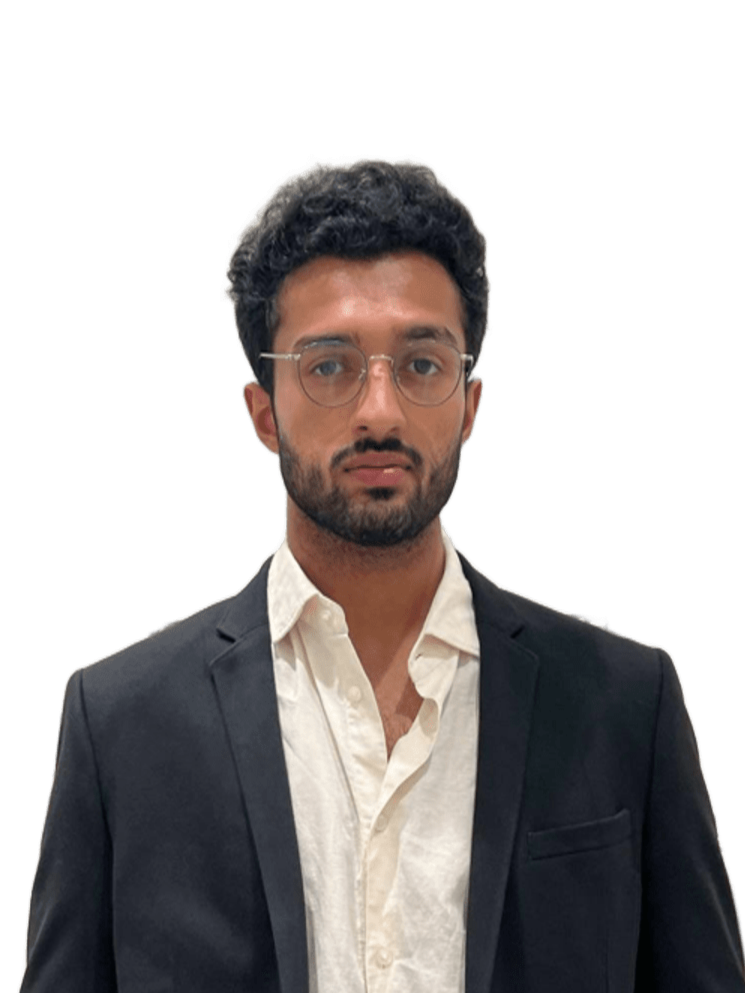
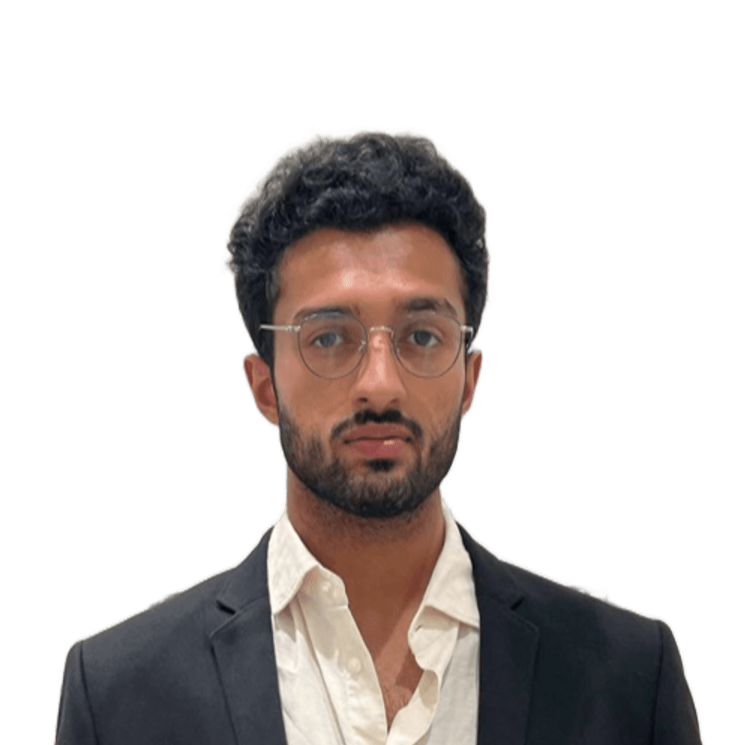
Update website with enhancements: 1) Change nav bar to NovaRyd green with white text, 2) Center About page images, 3) Fix app store buttons, 4) Replace PNG images with optimized WEBP format, 5) Add Keshav Jhawar image

diff --git a/index.html b/index.html
@@ -72,22 +72,22 @@
 </head>
 <body class="font-poppins text-slate-800 bg-neutral-100">
     <!-- Header/Navigation -->
-    <header class="bg-white shadow-sm sticky top-0 z-50">
+    <header class="bg-novaryd-green shadow-sm sticky top-0 z-50">
         <div class="container mx-auto px-6 py-4">
             <div class="flex justify-between items-center">
                 <a href="index.html" class="flex items-center">
-                    <img src="/assets/NovaRyd_Logo.png" alt="NovaRyd Logo" class="h-[40px] w-auto" width="160" height="40">
+                    <img src="/assets/NovaRyd_Logo.webp" alt="NovaRyd Logo" class="h-[40px] w-auto" width="160" height="40">
                 </a>
                 
                 <nav class="hidden md:flex space-x-8">
-                    <a href="index.html" class="text-novaryd-green font-medium transition duration-300">Home</a>
-                    <a href="about.html" class="text-slate-800 hover:text-novaryd-green transition duration-300">About Us</a>
-                    <a href="#advertisers" class="text-slate-800 hover:text-novaryd-green transition duration-300">Advertisers</a>
-                    <a href="#download-app" class="text-slate-800 hover:text-novaryd-green transition duration-300">Download App</a>
+                    <a href="index.html" class="text-white font-medium transition duration-300">Home</a>
+                    <a href="about.html" class="text-white hover:text-white/80 transition duration-300">About Us</a>
+                    <a href="#advertisers" class="text-white hover:text-white/80 transition duration-300">Advertisers</a>
+                    <a href="#download-app" class="text-white hover:text-white/80 transition duration-300">Download App</a>
                 </nav>
                 
                 <div class="md:hidden">
-                    <button id="mobile-menu-button" class="text-slate-800 hover:text-novaryd-green transition duration-300">
+                    <button id="mobile-menu-button" class="text-white hover:text-white/80 transition duration-300">
                         <svg xmlns="http://www.w3.org/2000/svg" class="h-6 w-6" fill="none" viewBox="0 0 24 24" stroke="currentColor">
                             <path stroke-linecap="round" stroke-linejoin="round" stroke-width="2" d="M4 6h16M4 12h16M4 18h16" />
                         </svg>
@@ -98,10 +98,10 @@
             <!-- Mobile Menu -->
             <div id="mobile-menu" class="md:hidden hidden mt-4 pb-4">
                 <nav class="flex flex-col space-y-4">
-                    <a href="index.html" class="text-novaryd-green font-medium transition duration-300">Home</a>
-                    <a href="about.html" class="text-slate-800 hover:text-novaryd-green transition duration-300">About Us</a>
-                    <a href="#advertisers" class="text-slate-800 hover:text-novaryd-green transition duration-300">Advertisers</a>
-                    <a href="#download-app" class="text-slate-800 hover:text-novaryd-green transition duration-300">Download App</a>
+                    <a href="index.html" class="text-white font-medium transition duration-300">Home</a>
+                    <a href="about.html" class="text-white hover:text-white/80 transition duration-300">About Us</a>
+                    <a href="#advertisers" class="text-white hover:text-white/80 transition duration-300">Advertisers</a>
+                    <a href="#download-app" class="text-white hover:text-white/80 transition duration-300">Download App</a>
                 </nav>
             </div>
         </div>
@@ -131,7 +131,7 @@
         <div class="md:w-1/2 flex justify-center">
             <!-- Vehicle image with drop shadow -->
             <div class="w-full max-w-md shadow-lg">
-                <img src="/assets/AutoRickshaw_Image.png" alt="NovaRyd Electric Auto-Rickshaw" class="w-full h-auto object-cover rounded-lg" width="500" height="400" loading="lazy">
+                <img src="/assets/AutoRickshaw_Image.webp" alt="NovaRyd Electric Auto-Rickshaw" class="w-full h-full object-contain rounded-lg shadow-md" width="500" height="400" loading="lazy">
             </div>
         </div>
     </section>
@@ -139,7 +139,7 @@
     <!-- App Download Section -->
     <section id="download" class="py-16 bg-gray-50">
       <div class="container mx-auto flex flex-col lg:flex-row items-center gap-8 px-4">
-        <img src="/assets/App_Screenshot.png" alt="NovaRyd booking app screenshot"
+        <img src="/assets/App_Screenshot.webp" alt="NovaRyd booking app screenshot"
              class="w-72 rounded-2xl shadow-xl mx-auto lg:mx-0" />
         <div class="text-center lg:text-left">
           <h2 class="text-3xl font-bold mb-4">Book your ride in two taps</h2>
@@ -331,16 +331,16 @@
                     <p class="mb-6">Experience hassle-free, eco-friendly rides at a flat rate. Available for iOS and Android.</p>
                     <div class="flex flex-col sm:flex-row gap-4 justify-center sm:justify-start">
                         <a href="app-coming-soon.html" aria-label="Download on the App Store" class="transition duration-300 hover:opacity-80">
-                            <img src="/assets/appstore.svg" alt="Apple App Store badge" class="h-12 w-auto" width="120" height="40">
+                            <img src="/assets/appstore.svg" alt="Download on the App Store" class="h-11 w-auto" style="min-width: 140px;" width="140" height="44">
                         </a>
                         <a href="app-coming-soon.html" aria-label="Get it on Google Play" class="transition duration-300 hover:opacity-80">
-                            <img src="/assets/playstore.svg" alt="Google Play Store badge" class="h-12 w-auto" width="135" height="40">
+                            <img src="/assets/playstore.svg" alt="Get it on Google Play" class="h-11 w-auto" style="min-width: 140px;" width="140" height="44">
                         </a>
                     </div>
                 </div>
                 <div class="md:w-1/2 flex justify-center">
                     <div class="bg-neutral-200 rounded-lg w-[200px] h-[400px] flex items-center justify-center">
-                        <img src="/assets/App_Screenshot.png" alt="NovaRyd App Screenshot" class="w-full h-full object-cover rounded-lg" width="200" height="400" loading="lazy">
+                        <img src="/assets/App_Screenshot.webp" alt="NovaRyd App Screenshot" class="w-full h-full object-cover rounded-lg" width="200" height="400" loading="lazy">
                     </div>
                 </div>
             </div>
@@ -364,7 +364,7 @@
                 <div class="mb-6 md:mb-0">
                     <!-- Logo in footer -->
                     <div class="mb-4">
-                        <img src="/assets/NovaRyd_Logo.png" alt="NovaRyd Logo" class="h-[40px] w-auto" width="160" height="40">
+                        <img src="/assets/NovaRyd_Logo.webp" alt="NovaRyd Logo" class="h-[40px] w-auto" width="160" height="40">
                     </div>
                     <p class="text-sm text-gray-400">Low-cost, all-electric mobility for a greener Mumbai</p>
                 </div>

diff --git a/about.html b/about.html
@@ -57,22 +57,22 @@
 </head>
 <body class="font-poppins text-slate-800 bg-neutral-100">
     <!-- Header/Navigation -->
-    <header class="bg-white shadow-sm sticky top-0 z-50">
+    <header class="bg-novaryd-green shadow-sm sticky top-0 z-50">
         <div class="container mx-auto px-6 py-4">
             <div class="flex justify-between items-center">
                 <a href="index.html" class="flex items-center">
-                    <img src="/assets/NovaRyd_Logo.png" alt="NovaRyd Logo" class="h-[40px] w-auto" width="160" height="40">
+                    <img src="/assets/NovaRyd_Logo.webp" alt="NovaRyd Logo" class="h-[40px] w-auto" width="160" height="40">
                 </a>
                 
                 <nav class="hidden md:flex space-x-8">
-                    <a href="index.html" class="text-slate-800 hover:text-novaryd-green transition duration-300">Home</a>
-                    <a href="about.html" class="text-novaryd-green font-medium transition duration-300">About Us</a>
-                    <a href="index.html#advertisers" class="text-slate-800 hover:text-novaryd-green transition duration-300">Advertisers</a>
-                    <a href="index.html#download-app" class="text-slate-800 hover:text-novaryd-green transition duration-300">Download App</a>
+                    <a href="index.html" class="text-white hover:text-white/80 transition duration-300">Home</a>
+                    <a href="about.html" class="text-white font-medium transition duration-300">About Us</a>
+                    <a href="index.html#advertisers" class="text-white hover:text-white/80 transition duration-300">Advertisers</a>
+                    <a href="index.html#download-app" class="text-white hover:text-white/80 transition duration-300">Download App</a>
                 </nav>
                 
                 <div class="md:hidden">
-                    <button id="mobile-menu-button" class="text-slate-800 hover:text-novaryd-green transition duration-300">
+                    <button id="mobile-menu-button" class="text-white hover:text-white/80 transition duration-300">
                         <svg xmlns="http://www.w3.org/2000/svg" class="h-6 w-6" fill="none" viewBox="0 0 24 24" stroke="currentColor">
                             <path stroke-linecap="round" stroke-linejoin="round" stroke-width="2" d="M4 6h16M4 12h16M4 18h16" />
                         </svg>
@@ -83,10 +83,10 @@
             <!-- Mobile Menu -->
             <div id="mobile-menu" class="md:hidden hidden mt-4 pb-4">
                 <nav class="flex flex-col space-y-4">
-                    <a href="index.html" class="text-slate-800 hover:text-novaryd-green transition duration-300">Home</a>
-                    <a href="about.html" class="text-novaryd-green font-medium transition duration-300">About Us</a>
-                    <a href="index.html#advertisers" class="text-slate-800 hover:text-novaryd-green transition duration-300">Advertisers</a>
-                    <a href="index.html#download-app" class="text-slate-800 hover:text-novaryd-green transition duration-300">Download App</a>
+                    <a href="index.html" class="text-white hover:text-white/80 transition duration-300">Home</a>
+                    <a href="about.html" class="text-white font-medium transition duration-300">About Us</a>
+                    <a href="index.html#advertisers" class="text-white hover:text-white/80 transition duration-300">Advertisers</a>
+                    <a href="index.html#download-app" class="text-white hover:text-white/80 transition duration-300">Download App</a>
                 </nav>
             </div>
         </div>
@@ -164,7 +164,7 @@
                 <!-- Team Member 1 -->
                 <div class="bg-neutral-100 rounded-lg overflow-hidden text-center">
                     <div class="bg-neutral-200 h-48 flex items-center justify-center overflow-hidden">
-                        <img src="/assets/Pavan Pal.png" alt="Pavan Pal - Co-Founder & CEO" class="w-full h-full object-cover">
+                        <img src="/assets/Pavan Pal.webp" alt="Pavan Pal - Co-Founder & CEO" class="w-auto h-auto object-cover mx-auto my-3" style="width: 300px; height: auto;">
                     </div>
                     <div class="p-6">
                         <h3 class="text-xl font-bold mb-1">Pavan Pal</h3>
@@ -176,7 +176,7 @@
                 <!-- Team Member 2 -->
                 <div class="bg-neutral-100 rounded-lg overflow-hidden text-center">
                     <div class="bg-neutral-200 h-48 flex items-center justify-center overflow-hidden">
-                        <img src="/assets/Madhavan Sivakumaran.png" alt="Madhavan Sivakumaran - Co-Founder & CTO" class="w-full h-full object-cover">
+                        <img src="/assets/Madhavan Sivakumaran.webp" alt="Madhavan Sivakumaran - Co-Founder & CTO" class="w-auto h-auto object-cover mx-auto my-3" style="width: 300px; height: auto;">
                     </div>
                     <div class="p-6">
                         <h3 class="text-xl font-bold mb-1">Madhavan Sivakumaran</h3>
@@ -187,10 +187,8 @@
                 
                 <!-- Team Member 3 -->
                 <div class="bg-neutral-100 rounded-lg overflow-hidden text-center">
-                    <div class="bg-neutral-200 h-48 flex items-center justify-center">
-                        <svg xmlns="http://www.w3.org/2000/svg" class="h-24 w-24 text-gray-400" fill="none" viewBox="0 0 24 24" stroke="currentColor">
-                            <path stroke-linecap="round" stroke-linejoin="round" stroke-width="1" d="M5.121 17.804A13.937 13.937 0 0112 16c2.5 0 4.847.655 6.879 1.804M15 10a3 3 0 11-6 0 3 3 0 016 0zm6 2a9 9 0 11-18 0 9 9 0 0118 0z" />
-                        </svg>
+                    <div class="bg-neutral-200 h-48 flex items-center justify-center overflow-hidden">
+                        <img src="/assets/Keshav Jhawar.webp" alt="Keshav Jhawar - Head of Operations" class="w-auto h-auto object-cover mx-auto my-3" style="width: 300px; height: auto;">
                     </div>
                     <div class="p-6">
                         <h3 class="text-xl font-bold mb-1">Keshav Jhawar</h3>

diff --git a/app-coming-soon.html b/app-coming-soon.html
@@ -43,22 +43,22 @@
 </head>
 <body class="font-poppins text-slate-800 bg-neutral-100">
     <!-- Header/Navigation -->
-    <header class="bg-white shadow-sm sticky top-0 z-50">
+    <header class="bg-novaryd-green shadow-sm sticky top-0 z-50">
         <div class="container mx-auto px-6 py-4">
             <div class="flex justify-between items-center">
                 <a href="index.html" class="flex items-center">
-                    <img src="/assets/NovaRyd_Logo.png" alt="NovaRyd Logo" class="h-[40px] w-auto" width="160" height="40">
+                    <img src="/assets/NovaRyd_Logo.webp" alt="NovaRyd Logo" class="h-[40px] w-auto" width="160" height="40">
                 </a>
                 
                 <nav class="hidden md:flex space-x-8">
-                    <a href="index.html" class="text-slate-800 hover:text-novaryd-green transition duration-300">Home</a>
-                    <a href="about.html" class="text-slate-800 hover:text-novaryd-green transition duration-300">About Us</a>
-                    <a href="index.html#advertisers" class="text-slate-800 hover:text-novaryd-green transition duration-300">Advertisers</a>
-                    <a href="index.html#download-app" class="text-slate-800 hover:text-novaryd-green transition duration-300">Download App</a>
+                    <a href="index.html" class="text-white hover:text-white/80 transition duration-300">Home</a>
+                    <a href="about.html" class="text-white hover:text-white/80 transition duration-300">About Us</a>
+                    <a href="index.html#advertisers" class="text-white hover:text-white/80 transition duration-300">Advertisers</a>
+                    <a href="index.html#download-app" class="text-white hover:text-white/80 transition duration-300">Download App</a>
                 </nav>
                 
                 <div class="md:hidden">
-                    <button id="mobile-menu-button" class="text-slate-800 hover:text-novaryd-green transition duration-300">
+                    <button id="mobile-menu-button" class="text-white hover:text-white/80 transition duration-300">
                         <svg xmlns="http://www.w3.org/2000/svg" class="h-6 w-6" fill="none" viewBox="0 0 24 24" stroke="currentColor">
                             <path stroke-linecap="round" stroke-linejoin="round" stroke-width="2" d="M4 6h16M4 12h16M4 18h16" />
                         </svg>
@@ -69,10 +69,10 @@
             <!-- Mobile Menu -->
             <div id="mobile-menu" class="md:hidden hidden mt-4 pb-4">
                 <nav class="flex flex-col space-y-4">
-                    <a href="index.html" class="text-slate-800 hover:text-novaryd-green transition duration-300">Home</a>
-                    <a href="about.html" class="text-slate-800 hover:text-novaryd-green transition duration-300">About Us</a>
-                    <a href="index.html#advertisers" class="text-slate-800 hover:text-novaryd-green transition duration-300">Advertisers</a>
-                    <a href="index.html#download-app" class="text-slate-800 hover:text-novaryd-green transition duration-300">Download App</a>
+                    <a href="index.html" class="text-white hover:text-white/80 transition duration-300">Home</a>
+                    <a href="about.html" class="text-white hover:text-white/80 transition duration-300">About Us</a>
+                    <a href="index.html#advertisers" class="text-white hover:text-white/80 transition duration-300">Advertisers</a>
+                    <a href="index.html#download-app" class="text-white hover:text-white/80 transition duration-300">Download App</a>
                 </nav>
             </div>
         </div>
@@ -83,7 +83,7 @@
         <div class="container mx-auto max-w-3xl text-center">
             <div class="bg-white p-8 md:p-12 rounded-lg shadow-md">
                 <div class="mb-8">
-                    <img src="/assets/App_Screenshot.png" alt="NovaRyd App Preview" class="h-64 mx-auto rounded-lg shadow-md">
+                    <img src="/assets/App_Screenshot.webp" alt="NovaRyd App Preview" class="h-64 mx-auto rounded-lg shadow-md">
                 </div>
                 
                 <h1 class="text-3xl md:text-4xl font-bold mb-6 text-novaryd-green">App Coming Soon!</h1>

diff --git a/privacy-policy.html b/privacy-policy.html
@@ -57,22 +57,22 @@
 </head>
 <body class="font-poppins text-slate-800 bg-neutral-100">
     <!-- Header/Navigation -->
-    <header class="bg-white shadow-sm sticky top-0 z-50">
+    <header class="bg-novaryd-green shadow-sm sticky top-0 z-50">
         <div class="container mx-auto px-6 py-4">
             <div class="flex justify-between items-center">
                 <a href="index.html" class="flex items-center">
-                    <img src="/assets/NovaRyd_Logo.png" alt="NovaRyd Logo" class="h-[40px] w-auto" width="160" height="40">
+                    <img src="/assets/NovaRyd_Logo.webp" alt="NovaRyd Logo" class="h-[40px] w-auto" width="160" height="40">
                 </a>
                 
                 <nav class="hidden md:flex space-x-8">
-                    <a href="index.html" class="text-slate-800 hover:text-novaryd-green transition duration-300">Home</a>
-                    <a href="about.html" class="text-slate-800 hover:text-novaryd-green transition duration-300">About Us</a>
-                    <a href="index.html#advertisers" class="text-slate-800 hover:text-novaryd-green transition duration-300">Advertisers</a>
-                    <a href="index.html#download-app" class="text-slate-800 hover:text-novaryd-green transition duration-300">Download App</a>
+                    <a href="index.html" class="text-white hover:text-white/80 transition duration-300">Home</a>
+                    <a href="about.html" class="text-white hover:text-white/80 transition duration-300">About Us</a>
+                    <a href="index.html#advertisers" class="text-white hover:text-white/80 transition duration-300">Advertisers</a>
+                    <a href="index.html#download-app" class="text-white hover:text-white/80 transition duration-300">Download App</a>
                 </nav>
                 
                 <div class="md:hidden">
-                    <button id="mobile-menu-button" class="text-slate-800 hover:text-novaryd-green transition duration-300">
+                    <button id="mobile-menu-button" class="text-white hover:text-white/80 transition duration-300">
                         <svg xmlns="http://www.w3.org/2000/svg" class="h-6 w-6" fill="none" viewBox="0 0 24 24" stroke="currentColor">
                             <path stroke-linecap="round" stroke-linejoin="round" stroke-width="2" d="M4 6h16M4 12h16M4 18h16" />
                         </svg>
@@ -83,10 +83,10 @@
             <!-- Mobile Menu -->
             <div id="mobile-menu" class="md:hidden hidden mt-4 pb-4">
                 <nav class="flex flex-col space-y-4">
-                    <a href="index.html" class="text-slate-800 hover:text-novaryd-green transition duration-300">Home</a>
-                    <a href="about.html" class="text-slate-800 hover:text-novaryd-green transition duration-300">About Us</a>
-                    <a href="index.html#advertisers" class="text-slate-800 hover:text-novaryd-green transition duration-300">Advertisers</a>
-                    <a href="index.html#download-app" class="text-slate-800 hover:text-novaryd-green transition duration-300">Download App</a>
+                    <a href="index.html" class="text-white hover:text-white/80 transition duration-300">Home</a>
+                    <a href="about.html" class="text-white hover:text-white/80 transition duration-300">About Us</a>
+                    <a href="index.html#advertisers" class="text-white hover:text-white/80 transition duration-300">Advertisers</a>
+                    <a href="index.html#download-app" class="text-white hover:text-white/80 transition duration-300">Download App</a>
                 </nav>
             </div>
         </div>

diff --git a/terms.html b/terms.html
@@ -57,22 +57,22 @@
 </head>
 <body class="font-poppins text-slate-800 bg-neutral-100">
     <!-- Header/Navigation -->
-    <header class="bg-white shadow-sm sticky top-0 z-50">
+    <header class="bg-novaryd-green shadow-sm sticky top-0 z-50">
         <div class="container mx-auto px-6 py-4">
             <div class="flex justify-between items-center">
                 <a href="index.html" class="flex items-center">
-                    <img src="/assets/NovaRyd_Logo.png" alt="NovaRyd Logo" class="h-[40px] w-auto" width="160" height="40">
+                    <img src="/assets/NovaRyd_Logo.webp" alt="NovaRyd Logo" class="h-[40px] w-auto" width="160" height="40">
                 </a>
                 
                 <nav class="hidden md:flex space-x-8">
-                    <a href="index.html" class="text-slate-800 hover:text-novaryd-green transition duration-300">Home</a>
-                    <a href="about.html" class="text-slate-800 hover:text-novaryd-green transition duration-300">About Us</a>
-                    <a href="index.html#advertisers" class="text-slate-800 hover:text-novaryd-green transition duration-300">Advertisers</a>
-                    <a href="index.html#download-app" class="text-slate-800 hover:text-novaryd-green transition duration-300">Download App</a>
+                    <a href="index.html" class="text-white hover:text-white/80 transition duration-300">Home</a>
+                    <a href="about.html" class="text-white hover:text-white/80 transition duration-300">About Us</a>
+                    <a href="index.html#advertisers" class="text-white hover:text-white/80 transition duration-300">Advertisers</a>
+                    <a href="index.html#download-app" class="text-white hover:text-white/80 transition duration-300">Download App</a>
                 </nav>
                 
                 <div class="md:hidden">
-                    <button id="mobile-menu-button" class="text-slate-800 hover:text-novaryd-green transition duration-300">
+                    <button id="mobile-menu-button" class="text-white hover:text-white/80 transition duration-300">
                         <svg xmlns="http://www.w3.org/2000/svg" class="h-6 w-6" fill="none" viewBox="0 0 24 24" stroke="currentColor">
                             <path stroke-linecap="round" stroke-linejoin="round" stroke-width="2" d="M4 6h16M4 12h16M4 18h16" />
                         </svg>
@@ -83,10 +83,10 @@
             <!-- Mobile Menu -->
             <div id="mobile-menu" class="md:hidden hidden mt-4 pb-4">
                 <nav class="flex flex-col space-y-4">
-                    <a href="index.html" class="text-slate-800 hover:text-novaryd-green transition duration-300">Home</a>
-                    <a href="about.html" class="text-slate-800 hover:text-novaryd-green transition duration-300">About Us</a>
-                    <a href="index.html#advertisers" class="text-slate-800 hover:text-novaryd-green transition duration-300">Advertisers</a>
-                    <a href="index.html#download-app" class="text-slate-800 hover:text-novaryd-green transition duration-300">Download App</a>
+                    <a href="index.html" class="text-white hover:text-white/80 transition duration-300">Home</a>
+                    <a href="about.html" class="text-white hover:text-white/80 transition duration-300">About Us</a>
+                    <a href="index.html#advertisers" class="text-white hover:text-white/80 transition duration-300">Advertisers</a>
+                    <a href="index.html#download-app" class="text-white hover:text-white/80 transition duration-300">Download App</a>
                 </nav>
             </div>
         </div>
